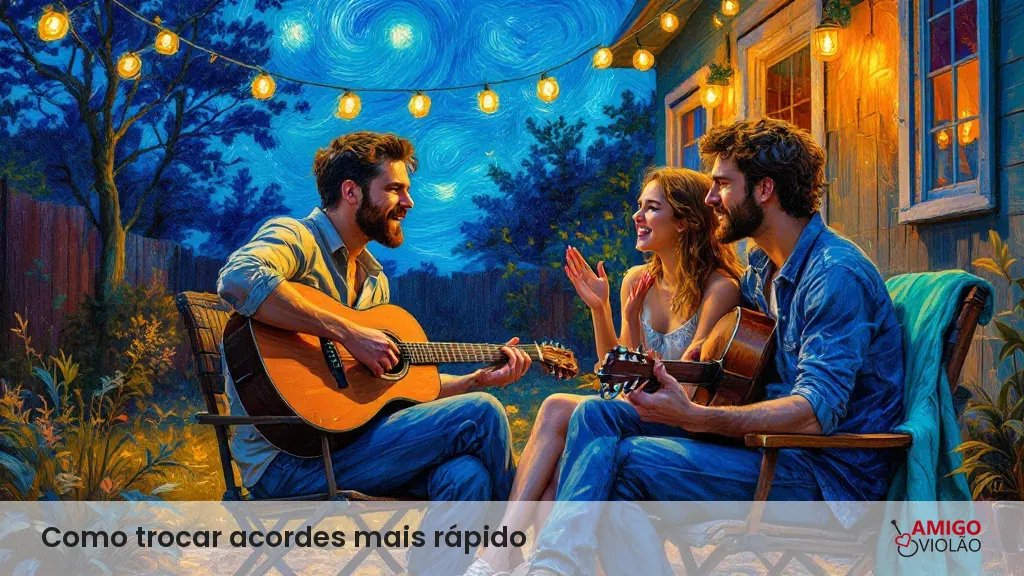
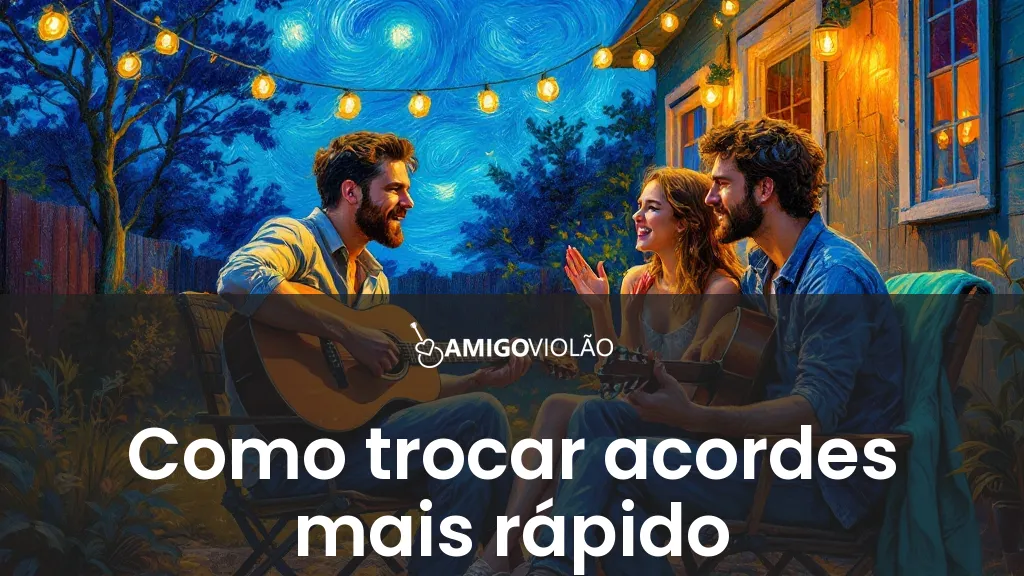
Redesenha tarja de capa e adiciona autoria do Ricardo no blog
Tarja: faixa maior (49% da altura, 72% opacidade) com título grande e logo
branca, cor escolhida automaticamente por contraste entre as cores da marca
(laranja/teal/escuro) em vez de fixa. Fundo do /blog e categorias fica escuro.
Adiciona foto do Ricardo no header do /blog e uma seção de autoria (foto +
bio curta) antes do texto de cada post, já que a foto dele não aparece mais
nas capas geradas por IA.

diff --git a/src/app/blog/page.tsx b/src/app/blog/page.tsx
@@ -1,4 +1,5 @@
 import type { Metadata } from "next";
+import Image from "next/image";
 import Header from "@/components/Header";
 import Footer from "@/components/Footer";
 import BlogExplorer from "@/components/blog/BlogExplorer";
@@ -16,25 +17,34 @@ export default function BlogIndex() {
   return (
     <>
       <Header />
-      <main className="flex-1">
-        <section className="border-b border-black/5 bg-cream/40">
-          <div className="mx-auto max-w-6xl px-6 py-14">
-            <p className="text-sm font-semibold uppercase tracking-wide text-primary">
-              Blog
-            </p>
-            <h1 className="mt-2 text-4xl font-extrabold text-dark">
-              Aprenda e ensine violão
-            </h1>
-            <p className="mt-3 max-w-2xl text-charcoal/80">
-              Dicas práticas, métodos e histórias para tocar e ensinar com mais
-              leveza.
-            </p>
+      <main className="flex-1 bg-dark">
+        <section className="border-b border-white/10">
+          <div className="mx-auto flex max-w-6xl items-center justify-between gap-8 px-6 py-14">
+            <div>
+              <p className="text-sm font-semibold uppercase tracking-wide text-primary">
+                Blog
+              </p>
+              <h1 className="mt-2 text-4xl font-extrabold text-white">
+                Aprenda e ensine violão
+              </h1>
+              <p className="mt-3 max-w-2xl text-white/70">
+                Dicas práticas, métodos e histórias para tocar e ensinar com
+                mais leveza.
+              </p>
+            </div>
+            <Image
+              src="/images/ricardo-novais.webp"
+              alt="Ricardo Novais"
+              width={96}
+              height={96}
+              className="hidden shrink-0 rounded-full ring-2 ring-white/20 sm:block"
+            />
           </div>
         </section>
 
         <div className="mx-auto max-w-6xl px-6 py-10">
           {posts.length === 0 ? (
-            <p className="text-charcoal/70">
+            <p className="text-white/70">
               Nenhum post publicado ainda. Rode a migração para importar os
               posts.
             </p>

diff --git a/src/app/blog/categoria/[slug]/page.tsx b/src/app/blog/categoria/[slug]/page.tsx
@@ -44,10 +44,10 @@ export default async function CategoryArchive({
   return (
     <>
       <Header />
-      <main className="flex-1">
-        <section className="border-b border-black/5 bg-cream/40">
+      <main className="flex-1 bg-dark">
+        <section className="border-b border-white/10">
           <div className="mx-auto max-w-6xl px-6 py-14">
-            <nav className="mb-4 text-sm text-charcoal/60">
+            <nav className="mb-4 text-sm text-white/60">
               <Link href="/blog" className="hoverable:text-primary">
                 Blog
               </Link>
@@ -57,8 +57,8 @@ export default async function CategoryArchive({
             <p className="text-sm font-semibold uppercase tracking-wide text-primary">
               Categoria
             </p>
-            <h1 className="mt-2 text-4xl font-extrabold text-dark">{name}</h1>
-            <p className="mt-3 text-charcoal/70">
+            <h1 className="mt-2 text-4xl font-extrabold text-white">{name}</h1>
+            <p className="mt-3 text-white/70">
               {posts.length} {posts.length === 1 ? "artigo" : "artigos"}
             </p>
             <div className="mt-6">

diff --git a/src/app/[slug]/page.tsx b/src/app/[slug]/page.tsx
@@ -1,4 +1,5 @@
 import type { Metadata } from "next";
+import Image from "next/image";
 import Link from "next/link";
 import { notFound } from "next/navigation";
 import Header from "@/components/Header";
@@ -105,7 +106,25 @@ export default async function BlogPost({
             />
           </div>
 
-          <div id="post-content" className="mt-10">
+          <div className="mt-10 flex items-center gap-4">
+            <Image
+              src="/images/ricardo-novais.webp"
+              alt="Ricardo Novais"
+              width={64}
+              height={64}
+              className="shrink-0 rounded-full"
+            />
+            <p className="text-sm text-charcoal/80">
+              <span className="font-semibold text-dark">
+                Por Ricardo Novais
+              </span>
+              , professor de violão há mais de 20 anos e pesquisador dedicado
+              ao ensino do violão.
+            </p>
+          </div>
+          <hr className="my-8 border-t border-black/10" />
+
+          <div id="post-content">
             <PostBody content={post.content} />
           </div>
 

diff --git a/src/components/blog/BlogExplorer.tsx b/src/components/blog/BlogExplorer.tsx
@@ -175,7 +175,7 @@ export default function BlogExplorer({ posts }: { posts: PostCardData[] }) {
 
       {/* Post grid */}
       {filtered.length === 0 ? (
-        <p className="mt-12 text-center text-charcoal/70">
+        <p className="mt-12 text-center text-white/70">
           Nenhum artigo encontrado
           {query.trim() ? ` para “${query.trim()}”` : ""}. Tente outra busca ou
           remova o filtro de categoria.

diff --git a/scripts/fal_add_title_bar.py b/scripts/fal_add_title_bar.py
@@ -1,9 +1,15 @@
 #!/usr/bin/env python3
 """
-Aplica a tarja de titulo (branco translucido + logo) numa capa de blog ja
-gerada. Passo separado da geracao em si -- pedir pro modelo de imagem
-desenhar texto e a logo real nao e confiavel (ver SKILL.md), entao isso e
-composicao deterministica com Pillow.
+Aplica a tarja de titulo (faixa colorida translucida + logo branca + titulo
+grande) numa capa de blog ja gerada. Passo separado da geracao em si -- pedir
+pro modelo de imagem desenhar texto e a logo real nao e confiavel (ver
+SKILL.md), entao isso e composicao deterministica com Pillow.
+
+A cor da tarja e escolhida automaticamente entre as cores da marca (laranja,
+teal, escuro) com base na cor media da regiao da imagem que a tarja vai
+cobrir -- contraste complementar: fundo frio (azul/verde) puxa laranja, fundo
+quente (laranja/vermelho/amarelo) puxa teal, fundo escuro/dessaturado puxa a
+cor escura neutra. Da pra forcar uma cor especifica com --bar-color.
 
 Uso:
   python scripts/fal_add_title_bar.py \
@@ -17,65 +23,143 @@ so converte pra webp e redimensiona depois).
 from __future__ import annotations
 
 import argparse
+import colorsys
 from pathlib import Path
 
 from PIL import Image, ImageDraw, ImageFont
 
 REPO_ROOT = Path(__file__).resolve().parent.parent
 FONT_PATH = Path(__file__).resolve().parent / "fonts" / "Poppins-SemiBold.ttf"
-DEFAULT_LOGO = REPO_ROOT / "public" / "images" / "logo-amigo-violao-completo.png"
+DEFAULT_LOGO = REPO_ROOT / "public" / "images" / "logo-amigo-violao-branco.png"
 
-BAR_HEIGHT_PCT = 0.13
-BAR_OPACITY = 0.55
-FONT_SIZE = 28
-TEXT_COLOR = (33, 33, 33)  # brand dark (--brand-dark #212121)
-PADDING_PCT = 0.04  # margem esquerda (texto) e direita (logo), em % da largura
-LOGO_VPAD_PCT = 0.20  # margem vertical da logo dentro da tarja, em % da altura da tarja
+BAR_HEIGHT_PCT = 0.49
+BAR_OPACITY = 0.72
+TITLE_FONT_SIZE = 72
+TITLE_LINE_SPACING = 1.08
+TITLE_COLOR = (255, 255, 255)
+SIDE_PADDING_PCT = 0.06  # margem esquerda/direita do titulo, em % da largura
+LOGO_HEIGHT_PCT = 0.08  # altura da logo, em % da altura da imagem
+LOGO_TOP_PAD_PCT = 0.10  # espaco entre o topo da tarja e a logo, em % da altura da tarja
+TITLE_TOP_GAP_PCT = 0.06  # espaco entre a logo e a primeira linha do titulo, em % da altura da tarja
+
+# RGB das cores da marca (ver src/app/globals.css --brand-*).
+BRAND_COLORS = {
+    "orange": (239, 84, 0),  # --brand-primary
+    "teal": (72, 194, 195),  # --brand-teal
+    "dark": (33, 33, 33),  # --brand-dark
+}
 
 
-def add_title_bar(image_path: Path, title: str, logo_path: Path, out_path: Path) -> None:
+def pick_bar_color(image: Image.Image, bar_top: int) -> tuple[str, tuple[int, int, int]]:
+    region = image.convert("RGB").crop((0, bar_top, image.width, image.height))
+    small = region.resize((24, 24))
+    pixels = [small.getpixel((x, y)) for x in range(24) for y in range(24)]
+    n = len(pixels)
+    avg = tuple(sum(p[i] for p in pixels) / n for i in range(3))
+    h, s, v = colorsys.rgb_to_hsv(avg[0] / 255, avg[1] / 255, avg[2] / 255)
+    hue_deg = h * 360
+
+    if s < 0.15 or v < 0.18:
+        return "dark", BRAND_COLORS["dark"]
+    if hue_deg < 70 or hue_deg > 330:
+        # fundo quente (vermelho/laranja/amarelo) -> tarja fria, contraste
+        return "teal", BRAND_COLORS["teal"]
+    # fundo frio (verde/azul/roxo) -> tarja quente, contraste
+    return "orange", BRAND_COLORS["orange"]
+
+
+def wrap_title(draw: ImageDraw.ImageDraw, title: str, font: ImageFont.FreeTypeFont, max_width: int) -> list[str]:
+    words = title.split()
+    lines: list[str] = []
+    current = ""
+    for word in words:
+        candidate = f"{current} {word}".strip()
+        if draw.textlength(candidate, font=font) <= max_width or not current:
+            current = candidate
+        else:
+            lines.append(current)
+            current = word
+    if current:
+        lines.append(current)
+    return lines
+
+
+def add_title_bar(
+    image_path: Path,
+    title: str,
+    logo_path: Path,
+    out_path: Path,
+    bar_color_choice: str,
+) -> None:
     base = Image.open(image_path).convert("RGBA")
     w, h = base.size
 
     bar_h = round(h * BAR_HEIGHT_PCT)
-    bar = Image.new("RGBA", (w, bar_h), (255, 255, 255, round(255 * BAR_OPACITY)))
+    bar_top = h - bar_h
 
+    if bar_color_choice == "auto":
+        color_name, color_rgb = pick_bar_color(base, bar_top)
+    else:
+        color_name, color_rgb = bar_color_choice, BRAND_COLORS[bar_color_choice]
+
+    bar = Image.new("RGBA", (w, bar_h), (*color_rgb, round(255 * BAR_OPACITY)))
     composed = base.copy()
-    composed.alpha_composite(bar, (0, h - bar_h))
+    composed.alpha_composite(bar, (0, bar_top))
 
     draw = ImageDraw.Draw(composed)
-    font = ImageFont.truetype(str(FONT_PATH), FONT_SIZE)
-    padding_x = round(w * PADDING_PCT)
+    side_padding = round(w * SIDE_PADDING_PCT)
+    max_text_width = w - 2 * side_padding
 
-    bar_top = h - bar_h
-    text_bbox = draw.textbbox((0, 0), title, font=font)
-    text_h = text_bbox[3] - text_bbox[1]
-    text_y = bar_top + (bar_h - text_h) / 2 - text_bbox[1]
-    draw.text((padding_x, text_y), title, font=font, fill=TEXT_COLOR)
-
+    # Logo, centralizada horizontalmente, perto do topo da tarja.
     logo = Image.open(logo_path).convert("RGBA")
-    logo_vpad = round(bar_h * LOGO_VPAD_PCT)
-    logo_target_h = bar_h - 2 * logo_vpad
-    logo_target_w = round(logo.width * (logo_target_h / logo.height))
-    logo = logo.resize((logo_target_w, logo_target_h), Image.LANCZOS)
-
-    logo_x = w - padding_x - logo_target_w
-    logo_y = bar_top + logo_vpad
+    logo_h = round(h * LOGO_HEIGHT_PCT)
+    logo_w = round(logo.width * (logo_h / logo.height))
+    logo = logo.resize((logo_w, logo_h), Image.LANCZOS)
+    logo_x = (w - logo_w) // 2
+    logo_y = bar_top + round(bar_h * LOGO_TOP_PAD_PCT)
     composed.alpha_composite(logo, (logo_x, logo_y))
+
+    # Titulo, ate 2 linhas, centralizado, abaixo da logo. Reduz a fonte se
+    # nao couber (titulos longos) em vez de estourar a tarja.
+    font_size = TITLE_FONT_SIZE
+    while font_size > 32:
+        font = ImageFont.truetype(str(FONT_PATH), font_size)
+        lines = wrap_title(draw, title, font, max_text_width)
+        if len(lines) <= 2 and all(draw.textlength(line, font=font) <= max_text_width for line in lines):
+            break
+        font_size -= 4
+
+    line_height = font_size * TITLE_LINE_SPACING
+    text_top = logo_y + logo_h + round(bar_h * TITLE_TOP_GAP_PCT)
+    text_block_h = line_height * len(lines)
+    available_h = (bar_top + bar_h) - text_top
+    text_top += max(0, (available_h - text_block_h) / 2)
+
+    for i, line in enumerate(lines):
+        line_w = draw.textlength(line, font=font)
+        x = (w - line_w) / 2
+        y = text_top + i * line_height
+        draw.text((x, y), line, font=font, fill=TITLE_COLOR)
 
     out_path.parent.mkdir(parents=True, exist_ok=True)
     if out_path.suffix.lower() in (".jpg", ".jpeg"):
         composed.convert("RGB").save(out_path, quality=92)
     else:
         composed.save(out_path)
-    print(f"Salvo em {out_path}")
+    print(f"Tarja '{color_name}' aplicada. Salvo em {out_path}")
 
 
 def main() -> None:
     parser = argparse.ArgumentParser(description=__doc__, formatter_class=argparse.RawDescriptionHelpFormatter)
     parser.add_argument("--image", required=True, type=Path, help="Capa ja gerada (jpg/png/webp)")
-    parser.add_argument("--title", required=True, help="Texto da tarja (normalmente o titulo do post)")
-    parser.add_argument("--logo", default=DEFAULT_LOGO, type=Path, help=f"Logo (default: {DEFAULT_LOGO})")
+    parser.add_argument("--title", required=True, help="Texto da tarja (normalmente o titulo do post, curto)")
+    parser.add_argument("--logo", default=DEFAULT_LOGO, type=Path, help=f"Logo branca (default: {DEFAULT_LOGO})")
+    parser.add_argument(
+        "--bar-color",
+        default="auto",
+        choices=["auto", *BRAND_COLORS],
+        help="Cor da tarja (default: auto -- escolhe por contraste com a imagem)",
+    )
     parser.add_argument("--out", type=Path, default=None, help="Saida (default: sobrescreve --image)")
     args = parser.parse_args()
 
@@ -85,7 +169,7 @@ def main() -> None:
             "(POPPINS_SEMIBOLD_BASE64) antes de rodar este script."
         )
 
-    add_title_bar(args.image, args.title, args.logo, args.out or args.image)
+    add_title_bar(args.image, args.title, args.logo, args.out or args.image, args.bar_color)
 
 
 if __name__ == "__main__":

diff --git a/.claude/skills/violao/SKILL.md b/.claude/skills/violao/SKILL.md
@@ -114,13 +114,22 @@ de still-life dela.
 
 1. **Tarja de título**: `python scripts/fal_add_title_bar.py --image <caminho>
    --title "<título curto>"` desenha por cima da imagem gerada uma tarja
-   branca translúcida (13% da altura, 55% de opacidade) com o título em
-   Poppins 28px e a logo real (`public/images/logo-amigo-violao-completo.png`)
-   à direita. **Composição determinística com Pillow, não geração por IA** —
-   pedir isso pro modelo de imagem não funciona (erra texto, não conhece a
-   logo real). `--title` é um título **curto e editorial**, não
-   necessariamente o `title` completo do front matter (que geralmente tem
-   sufixo de SEO tipo " - Amigo Violão" — não incluir isso na tarja).
+   colorida translúcida cobrindo os 49% inferiores da imagem (72% de
+   opacidade), com a logo branca (`public/images/logo-amigo-violao-branco.png`)
+   centralizada no topo da tarja e o título em Poppins ~72px (reduz
+   automaticamente se não couber em 2 linhas), branco, centralizado abaixo da
+   logo. **Composição determinística com Pillow, não geração por IA** — pedir
+   isso pro modelo de imagem não funciona (erra texto, não conhece a logo
+   real). `--title` é um título **curto e editorial**, não necessariamente o
+   `title` completo do front matter (que geralmente tem sufixo de SEO tipo
+   " - Amigo Violão" — não incluir isso na tarja).
+   - **Cor da tarja é automática** (`--bar-color auto`, o default): calcula a
+     cor média da região que a tarja vai cobrir e escolhe, entre as 3 cores da
+     marca, a que contrasta mais — fundo frio (azul/verde) → tarja laranja;
+     fundo quente (laranja/vermelho) → tarja teal; fundo escuro ou
+     pouco saturado → tarja escura neutra. Sempre uma das 3 cores oficiais da
+     marca, nunca uma cor arbitrária. Force uma cor específica com
+     `--bar-color orange|teal|dark` se quiser.
 2. **Otimize**: `python scripts/optimize_images.py --src public/images/blog`
    converte para `.webp` e redimensiona se estiver largo demais. Mantém o
    `.jpg` original ao lado até alguém atualizar as referências e rodar
